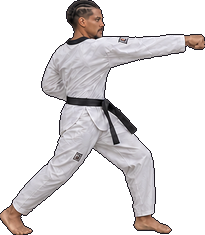
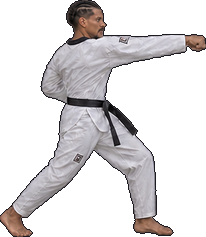
CLEITON: volta os chutes anteriores, só a posição de luta nova
Claude-Session: https://claude.ai/code/session_01HXNLdPa6jqkq51q5LfzTTd

diff --git a/index.html b/index.html
@@ -150,7 +150,7 @@ const ROSTER=[
  {nome:'IAN',real:true,hit:{soco:{x:10,y:-48,w:22,h:13},direto:{x:8,y:-49,w:22,h:13},chute:{x:14,y:-52,w:22,h:13},giro:{x:8,y:-60,w:22,h:13},passo:{x:14,y:-52,w:22,h:13},lateral:{x:14,y:-52,w:22,h:13},aereo:{x:14,y:-24,w:22,h:13}},spr:{idle:['ian-idle.webp',73.5,1.0],a0:['ian-idle.webp',73.5,1.0],a1:['ian-guarda.webp',66.5,0.996],a2:['ian-andar.webp',65.8,0.992],a3:['ian-guarda.webp',66.5,0.996],junta:['ian-junta.webp',30.5,1.038],soco:['ian-soco.webp',93.5,0.958],direto:['ian-direto.webp',96.2,0.975],chute:['ian-chute.webp',75.5,0.988],alto:['ian-alto.webp',62.5,1.071],passo:['ian-chute.webp',75.5,0.988],voa:['ian-voa.webp',46.8,0.675],guarda:['ian-guarda.webp',66.5,0.996]},faixa:'#e6e6e0',pele:'#d9a27a',cabelo:'#141010',estilo:'curto'},
  {nome:'MATT',tam:1.14,real:true,hit:{soco:{x:8,y:-50,w:22,h:13},direto:{x:9,y:-49,w:22,h:13},chute:{x:12,y:-43,w:22,h:13},passo:{x:12,y:-49,w:22,h:13},lateral:{x:12,y:-49,w:22,h:13},aereo:{x:12,y:-43,w:22,h:13},salto:{x:4,y:-62,w:30,h:26}},spr:{idle:['matt-idle.webp',70.2,1.0],a0:['matt-idle.webp',70.2,1.0],a1:['matt-andar.webp',81.2,0.975],a2:['matt-andar.webp',81.2,0.975],a3:['matt-andar.webp',81.2,0.975],soco:['matt-soco.webp',95.0,0.967],direto:['matt-direto.webp',101.5,0.958],chute:['matt-chute.webp',49.5,1.012],passo:['matt-lado.webp',95.5,0.996],pulo:['matt-pulo.webp',87.5,0.812],gancho:['matt-gancho.webp',83.0,1.017],pouso:['matt-pouso.webp',97.0,0.629],guarda:['matt-idle.webp',70.2,1.0]},faixa:'#151515',gola:true,pele:'#e0b48e',cabelo:'#1a120d',estilo:'cacheado'},
  {nome:'TIO',real:true,hit:{soco:{x:12,y:-51,w:22,h:13},direto:{x:11,y:-50,w:22,h:13},chute:{x:19,y:-47,w:22,h:13},giro:{x:19,y:-47,w:22,h:13},passo:{x:18,y:-41,w:22,h:13},lateral:{x:18,y:-41,w:22,h:13},aereo:{x:19,y:-47,w:22,h:13}},spr:{idle:['tio-idle.webp',74.2,1.0],a0:['tio-idle.webp',74.2,1.0],a1:['tio-andar.webp',88.2,0.979],a2:['tio-andar2.webp',59.0,1.029],a3:['tio-andar.webp',88.2,0.979],junta:['tio-junta.webp',48.0,1.083],soco:['tio-soco.webp',83.0,1.004],direto:['tio-direto.webp',86.5,0.988],chute:['tio-chute.webp',45.5,1.071],alto:['tio-chute.webp',45.5,1.071],passo:['tio-lado.webp',73.5,1.058],guarda:['tio-guarda.webp',76.0,0.996]},faixa:'#f2c230',pele:'#e0b48e',cabelo:'#2a1810',estilo:'curto'},
- {nome:'CLEITON',tam:1.14,real:true,hit:{soco:{x:10,y:-52,w:22,h:13},direto:{x:10,y:-51,w:22,h:13},chute:{x:21,y:-45,w:22,h:13},giro:{x:9,y:-63,w:22,h:18},passo:{x:15,y:-48,w:22,h:20},lateral:{x:21,y:-45,w:22,h:13},aereo:{x:21,y:-45,w:22,h:13}},spr:{idle:['cleiton-idle.webp',74.5,1.0],a0:['cleiton-idle.webp',74.5,1.0],a1:['cleiton-guarda.webp',73.0,0.971],a2:['cleiton-andar.webp',55.5,0.975],a3:['cleiton-guarda.webp',73.0,0.971],junta:['cleiton-junta.webp',120.0,0.938],soco:['cleiton-soco.webp',78.5,0.992],direto:['cleiton-direto.webp',84.2,0.979],chute:['cleiton-chute.webp',50.0,0.971],alto:['cleiton-alto.webp',82.0,1.046],passo:['cleiton-costas.webp',87.0,0.917],guarda:['cleiton-guarda.webp',73.0,0.971]},faixa:'#151515',gola:true,pele:'#8a5a3b',cabelo:'#120c08',estilo:'curto'},
+ {nome:'CLEITON',tam:1.14,real:true,hit:{soco:{x:10,y:-52,w:22,h:13},direto:{x:10,y:-51,w:22,h:13},chute:{x:22,y:-45,w:22,h:13},giro:{x:9,y:-63,w:22,h:18},passo:{x:11,y:-64,w:22,h:20},lateral:{x:22,y:-45,w:22,h:13},aereo:{x:22,y:-45,w:22,h:13}},spr:{idle:['cleiton-idle.webp',74.5,1.0],a0:['cleiton-idle.webp',74.5,1.0],a1:['cleiton-guarda.webp',76.5,0.979],a2:['cleiton-andar.webp',54.8,0.988],a3:['cleiton-guarda.webp',76.5,0.979],junta:['cleiton-junta.webp',120.0,0.946],soco:['cleiton-soco.webp',79.2,0.996],direto:['cleiton-direto.webp',84.8,0.988],chute:['cleiton-chute.webp',51.5,0.979],alto:['cleiton-alto.webp',84.0,1.05],passo:['cleiton-costas.webp',90.5,1.087],guarda:['cleiton-guarda.webp',76.5,0.979]},faixa:'#151515',gola:true,pele:'#8a5a3b',cabelo:'#120c08',estilo:'curto'},
  {nome:'CAMPOS',real:true,fwdKick:true,backStep:true,hit:{soco:{x:7,y:-50,w:22,h:16},direto:{x:6,y:-51,w:22,h:16},chute:{x:9,y:-67,w:22,h:16},giro:{x:9,y:-67,w:22,h:16},passo:{x:17,y:-54,w:22,h:16},lateral:{x:17,y:-54,w:22,h:16},aereo:{x:9,y:-67,w:22,h:16}},spr:{idle:['campos-idle.webp',85.0,1.0],a0:['campos-idle.webp',85.0,1.0],a1:['campos-idle2.webp',88.8,1.058],a2:['campos-andar.webp',77.0,1.004],a3:['campos-idle2.webp',88.8,1.058],junta:['campos-junta.webp',29.0,1.033],soco:['campos-soco.webp',78.0,1.004],direto:['campos-direto.webp',87.5,1.004],chute:['campos-alto.webp',58.5,1.083],alto:['campos-alto.webp',58.5,1.083],passo:['campos-lado.webp',89.5,0.979],lado:['campos-lado.webp',89.5,0.979],guarda:['campos-guarda.webp',69.5,1.004]},faixa:'#f2c230',pele:'#e0b48e',cabelo:'#4a2a14',estilo:'cacheado'},
  {nome:'CAÇADOR',tam:0.82,real:true,hit:{soco:{x:5,y:-51,w:22,h:16},direto:{x:5,y:-50,w:22,h:16},chute:{x:15,y:-52,w:22,h:16},giro:{x:15,y:-52,w:22,h:16},passo:{x:15,y:-52,w:22,h:16},lateral:{x:15,y:-52,w:22,h:16},aereo:{x:15,y:-52,w:22,h:16}},spr:{idle:['cacador-idle.webp',74.0,1.0],a0:['cacador-idle.webp',74.0,1.0],a1:['cacador-idle2.webp',75.8,1.029],a2:['cacador-andar.webp',72.2,1.008],a3:['cacador-idle2.webp',75.8,1.029],junta:['cacador-junta.webp',41.0,1.021],soco:['cacador-soco.webp',68.8,1.017],direto:['cacador-direto.webp',79.2,1.017],chute:['cacador-chute.webp',41.5,1.017],alto:['cacador-chute.webp',41.5,1.017],passo:['cacador-chute.webp',41.5,1.017],guarda:['cacador-guarda.webp',83.8,1.012]},faixa:'#f2c230',pele:'#e0b48e',cabelo:'#2a1810',estilo:'cacheado'}
 ];
